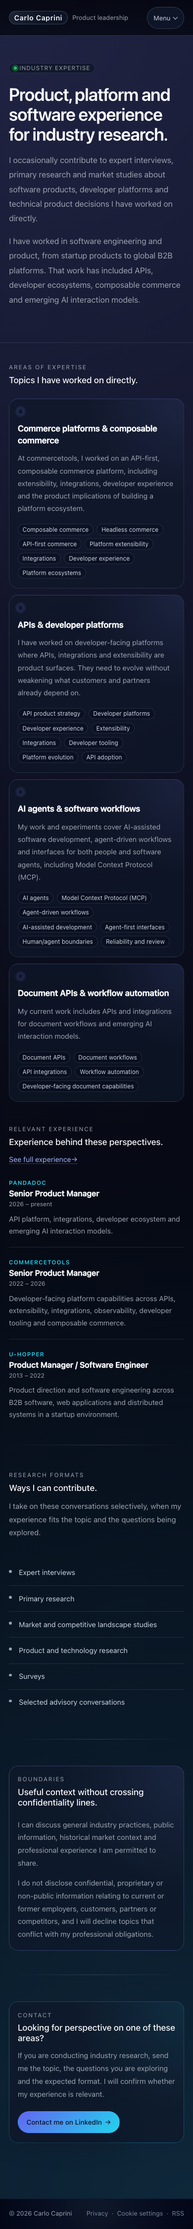
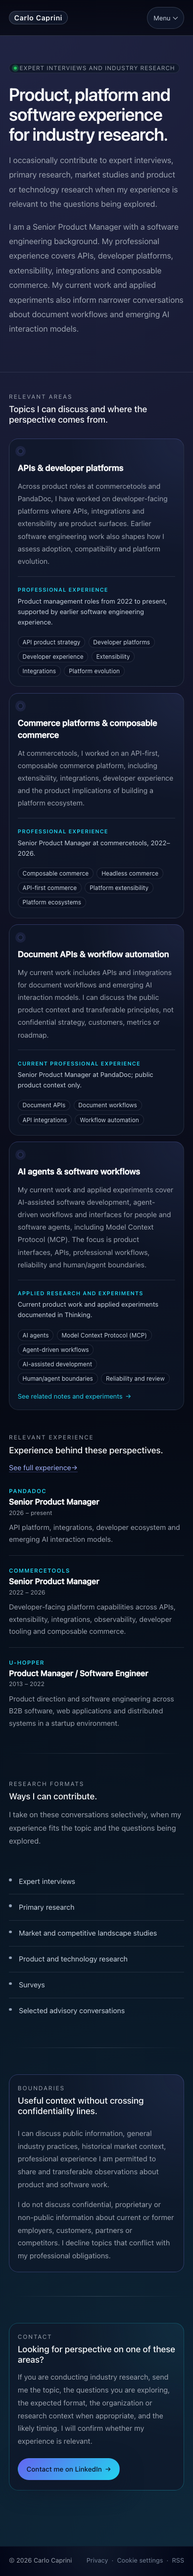
Refine research experience boundaries

diff --git a/tests/browser/editorial-journeys.spec.js b/tests/browser/editorial-journeys.spec.js
@@ -188,10 +188,10 @@ test("Work explains recognizable problems and exactly two engagement models", as
   await expect(page.getByRole("heading", { name: "Experience across Product & Engineering." })).toBeVisible();
   await expect(page.locator(".work-evidence-signals > li")).toHaveCount(3);
   await expect(page.getByRole("link", { name: /See full experience/ })).toHaveAttribute("href", "/experience/");
-  await expect(page.getByRole("heading", { name: "Industry expertise for research and expert conversations." })).toBeVisible();
+  await expect(page.getByRole("heading", { name: "Expert interviews and industry research." })).toBeVisible();
   await expect(page.locator(".work-industry-areas > li")).toHaveCount(4);
   await expect(page.locator(".work-industry-note")).toHaveCount(0);
-  await expect(page.getByRole("link", { name: /Explore industry expertise/ })).toHaveAttribute("href", "/industry-expertise/");
+  await expect(page.getByRole("link", { name: /See research topics and boundaries/ })).toHaveAttribute("href", "/industry-expertise/");
   const workSectionOrder = await page.locator(".work-evidence-section, .work-industry-section, .work-next-section")
     .evaluateAll((sections) => sections.map((section) => section.className));
   expect(workSectionOrder).toEqual([
@@ -209,28 +209,40 @@ test("Experience leads with direct work and leaves credentials out of the public
   await expect(page.locator(".experience-evidence-card")).toHaveCount(4);
   await expect(page.getByText("Career context", { exact: true })).toBeVisible();
   await expect(page.getByRole("link", { name: "How I can help", exact: true })).toHaveAttribute("href", "/work/");
-  await expect(page.getByRole("link", { name: /Explore industry expertise/ })).toHaveAttribute("href", "/industry-expertise/");
+  await expect(page.getByRole("link", { name: /See research topics and boundaries/ })).toHaveAttribute("href", "/industry-expertise/");
   await expect(page.getByRole("heading", { name: "Credentials and certifications" })).toHaveCount(0);
   await expect(page.locator("#credentials")).toHaveCount(0);
 });
 
-test("Industry Expertise is a bounded research profile grounded in direct experience", async ({ page }) => {
+test("Expert interviews and industry research distinguish professional experience from applied experiments", async ({ page }) => {
   await page.goto("/industry-expertise/");
 
   await expect(page).toHaveTitle("Software, API & Commerce Industry Expertise | Carlo Caprini");
   await expect(page.locator('meta[name="description"]')).toHaveAttribute(
     "content",
-    "Industry expertise for research on composable commerce, APIs, developer platforms, AI agents, MCP and document workflows, grounded in direct Product and software experience."
+    "Selected expert interviews and industry research on software platforms, APIs, composable commerce and applied AI workflows, grounded in product management and software engineering experience."
   );
+  await expect(page.getByText("Expert interviews and industry research", { exact: true })).toBeVisible();
   await expect(page.getByRole("heading", { level: 1, name: "Product, platform and software experience for industry research." })).toBeVisible();
   await expect(page.locator(".industry-expertise-area")).toHaveCount(4);
-  await expect(page.getByRole("heading", { name: "Commerce platforms & composable commerce" })).toBeVisible();
-  await expect(page.getByRole("heading", { name: "APIs & developer platforms" })).toBeVisible();
-  await expect(page.getByRole("heading", { name: "AI agents & software workflows" })).toBeVisible();
-  await expect(page.getByRole("heading", { name: "Document APIs & workflow automation" })).toBeVisible();
+  await expect(page.locator(".industry-expertise-area h3")).toHaveText([
+    "APIs & developer platforms",
+    "Commerce platforms & composable commerce",
+    "Document APIs & workflow automation",
+    "AI agents & software workflows"
+  ]);
+  await expect(page.locator(".industry-expertise-area-basis > span")).toHaveText([
+    "Professional experience",
+    "Professional experience",
+    "Current professional experience",
+    "Applied research and experiments"
+  ]);
+  await expect(page.getByText("My current work and applied experiments cover AI-assisted software development, agent-driven workflows and interfaces for people and software agents, including Model Context Protocol (MCP). The focus is product interfaces, APIs, professional workflows, reliability and human/agent boundaries.", { exact: true })).toBeVisible();
+  await expect(page.getByRole("link", { name: /See related notes and experiments/ })).toHaveAttribute("href", "/series/building-my-ai-operating-system/");
   await expect(page.locator(".industry-expertise-experience-list > li")).toHaveCount(3);
   await expect(page.locator(".industry-expertise-format-list > li")).toHaveCount(6);
-  await expect(page.getByText("I do not disclose confidential, proprietary or non-public information relating to current or former employers, customers, partners or competitors, and I will decline topics that conflict with my professional obligations.", { exact: true })).toBeVisible();
+  await expect(page.getByText("I can discuss public information, general industry practices, historical market context, professional experience I am permitted to share and transferable observations about product and software work.", { exact: true })).toBeVisible();
+  await expect(page.getByText("I do not discuss confidential, proprietary or non-public information about current or former employers, customers, partners or competitors. I decline topics that conflict with my professional obligations.", { exact: true })).toBeVisible();
   await expect(page.getByRole("link", { name: /See full experience/ })).toHaveAttribute("href", "/experience/");
   await expect(page.getByRole("link", { name: /Contact me on LinkedIn/ })).toHaveAttribute("href", "https://www.linkedin.com/in/carlocaprini/");
 
@@ -240,9 +252,9 @@ test("Industry Expertise is a bounded research profile grounded in direct experi
     )
   );
   expect(expertiseProfile.mainEntity["@id"]).toBe("https://carlocaprini.github.io/#person");
-  expect(expertiseProfile.mainEntity.knowsAbout).toContain("Composable commerce");
-  expect(expertiseProfile.mainEntity.knowsAbout).toContain("Model Context Protocol");
-  expect(expertiseProfile.mainEntity.knowsAbout).toContain("Document APIs");
+  expect(expertiseProfile.mainEntity.jobTitle).toBe("Senior Product Manager");
+  expect(expertiseProfile.mainEntity.description).toContain("Senior Product Manager");
+  expect(expertiseProfile.mainEntity).not.toHaveProperty("knowsAbout");
 });
 
 test("question pages connect Thinking, Influences and Experience", async ({ page }) => {

diff --git a/_layouts/industry-expertise.html b/_layouts/industry-expertise.html
@@ -30,9 +30,16 @@ layout: default
             <span class="industry-expertise-area-marker" aria-hidden="true"></span>
             <h3>{{ area.title }}</h3>
             <p>{{ area.body }}</p>
+            <div class="industry-expertise-area-basis">
+              <span>{{ area.basis.label }}</span>
+              <p>{{ area.basis.body }}</p>
+            </div>
             <ul class="industry-expertise-topic-list" aria-label="Topics related to {{ area.title }}">
               {% for topic in area.topics %}<li class="pill">{{ topic }}</li>{% endfor %}
             </ul>
+            {% if area.related_work %}
+              <a class="industry-expertise-area-link" href="{{ area.related_work.url | relative_url }}" data-analytics-event="series_open" data-analytics-series-id="{{ area.related_work.series_id }}" data-analytics-link-context="industry_expertise_related_work">{{ area.related_work.label }} <span aria-hidden="true">→</span></a>
+            {% endif %}
           </article>
         {% endfor %}
       </div>

diff --git a/tests/browser/navigation.spec.js b/tests/browser/navigation.spec.js
@@ -52,7 +52,7 @@ test("Work is a first-class destination with a current-page state", async ({ pag
     .toHaveAttribute("aria-current", "page");
 });
 
-test("Industry Expertise remains contextual rather than primary navigation", async ({ page }, testInfo) => {
+test("Industry research remains contextual rather than primary navigation", async ({ page }, testInfo) => {
   await page.goto("/industry-expertise/");
 
   const primaryNavigation = page.getByRole("navigation", { name: "Primary navigation" });
@@ -64,7 +64,7 @@ test("Industry Expertise remains contextual rather than primary navigation", asy
   if (testInfo.project.name !== "desktop-chromium") await mobileMenu.locator("summary").click();
 
   await expect(navigation.getByRole("link")).toHaveCount(7);
-  await expect(navigation.getByRole("link", { name: "Industry Expertise" })).toHaveCount(0);
+  await expect(navigation.locator('a[href="/industry-expertise/"]')).toHaveCount(0);
   await expect(navigation.locator('a[aria-current="page"]')).toHaveCount(0);
 });
 

diff --git a/tests/browser/analytics.spec.js b/tests/browser/analytics.spec.js
@@ -525,6 +525,18 @@ test("Industry Expertise paths and contact intent expose their source context", 
     }
   });
 
+  const relatedWorkLink = page.locator('[data-analytics-event="series_open"][data-analytics-link-context="industry_expertise_related_work"]');
+  await relatedWorkLink.evaluate((element) => element.addEventListener("click", (event) => event.preventDefault()));
+  await relatedWorkLink.click();
+  expect(await page.evaluate(() => window.__analyticsEvents.at(-1))).toMatchObject({
+    name: "series_open",
+    parameters: {
+      series_id: "building-my-ai-operating-system",
+      link_context: "industry_expertise_related_work",
+      page_type: "industry_expertise"
+    }
+  });
+
   const contactLink = page.locator('[data-analytics-event="contact_open"][data-analytics-link-context="industry_expertise_contact"]');
   await contactLink.evaluate((element) => element.addEventListener("click", (event) => event.preventDefault()));
   await contactLink.click();

diff --git a/_includes/styles/industry-expertise.css b/_includes/styles/industry-expertise.css
@@ -54,6 +54,27 @@
   line-height: 1.75;
 }
 
+.industry-expertise-area-basis {
+  margin-top: 1.1rem;
+  padding-top: 0.95rem;
+  border-top: 1px solid var(--color-line);
+}
+
+.industry-expertise-area-basis > span {
+  color: var(--accent-cyan);
+  font-size: 0.68rem;
+  font-weight: 600;
+  letter-spacing: 0.1em;
+  text-transform: uppercase;
+}
+
+.industry-expertise-area-basis p {
+  margin-top: 0.35rem;
+  color: var(--color-text-secondary);
+  font-size: 0.82rem;
+  line-height: 1.6;
+}
+
 .industry-expertise-topic-list {
   display: flex;
   flex-wrap: wrap;
@@ -66,6 +87,19 @@
 .industry-expertise-topic-list .pill {
   color: var(--color-text-secondary);
   background: rgba(2, 6, 23, 0.28);
+}
+
+.industry-expertise-area-link {
+  display: inline-flex;
+  gap: 0.35rem;
+  margin-top: 1rem;
+  color: var(--accent-cyan);
+  font-size: 0.82rem;
+  text-decoration: none;
+}
+
+.industry-expertise-area-link:hover {
+  color: #67e8f9;
 }
 
 .industry-expertise-split {

diff --git a/_includes/structured-data/industry-expertise.html b/_includes/structured-data/industry-expertise.html
@@ -13,12 +13,12 @@
     "@id": "{{ person_id }}",
     "name": {{ person_name | jsonify }},
     "jobTitle": {{ site.data.person.job_title | jsonify }},
+    "description": {{ site.data.person.description | jsonify }},
     "url": "{{ site_url }}/",
     "worksFor": {
       "@type": "Organization",
       "name": {{ site.data.person.current_company | jsonify }}
     },
-    "knowsAbout": {{ page.structured_knows_about | jsonify }},
     "sameAs": {{ site.data.person.same_as | default: empty | jsonify }}
   }
 }

diff --git a/pages/industry-expertise.md b/pages/industry-expertise.md
@@ -1,68 +1,69 @@
 ---
 layout: industry-expertise
-title: Industry Expertise
+title: Expert Interviews and Industry Research
 permalink: /industry-expertise/
 meta_title: Software, API & Commerce Industry Expertise | Carlo Caprini
-meta_description: Industry expertise for research on composable commerce, APIs, developer platforms, AI agents, MCP and document workflows, grounded in direct Product and software experience.
-last_modified_at: 2026-09-16
-structured_knows_about:
-  - Composable commerce
-  - API platforms
-  - Developer platforms
-  - Developer experience
-  - AI agents
-  - Model Context Protocol
-  - Document APIs
-  - Workflow automation
+meta_description: Selected expert interviews and industry research on software platforms, APIs, composable commerce and applied AI workflows, grounded in product management and software engineering experience.
+last_modified_at: 2026-09-18
 hero:
-  label: Industry expertise
+  label: Expert interviews and industry research
   title: Product, platform and software experience for industry research.
   paragraphs:
-    - I occasionally contribute to expert interviews, primary research and market studies about software products, developer platforms and technical product decisions I have worked on directly.
-    - I have worked in software engineering and product, from startup products to global B2B platforms. That work has included APIs, developer ecosystems, composable commerce and emerging AI interaction models.
+    - I occasionally contribute to expert interviews, primary research, market studies and product or technology research when my experience is relevant to the questions being explored.
+    - I am a Senior Product Manager with a software engineering background. My professional experience covers APIs, developer platforms, extensibility, integrations and composable commerce. My current work and applied experiments also inform narrower conversations about document workflows and emerging AI interaction models.
 areas:
-  eyebrow: Areas of expertise
-  title: Topics I have worked on directly.
+  eyebrow: Relevant areas
+  title: Topics I can discuss and where the perspective comes from.
   items:
-    - title: Commerce platforms & composable commerce
-      body: At commercetools, I worked on an API-first, composable commerce platform, including extensibility, integrations, developer experience and the product implications of building a platform ecosystem.
-      topics:
-        - Composable commerce
-        - Headless commerce
-        - API-first commerce
-        - Platform extensibility
-        - Integrations
-        - Developer experience
-        - Platform ecosystems
     - title: APIs & developer platforms
-      body: I have worked on developer-facing platforms where APIs, integrations and extensibility are product surfaces. They need to evolve without weakening what customers and partners already depend on.
+      body: Across product roles at commercetools and PandaDoc, I have worked on developer-facing platforms where APIs, integrations and extensibility are product surfaces. Earlier software engineering work also shapes how I assess adoption, compatibility and platform evolution.
+      basis:
+        label: Professional experience
+        body: Product management roles from 2022 to present, supported by earlier software engineering experience.
       topics:
         - API product strategy
         - Developer platforms
         - Developer experience
         - Extensibility
         - Integrations
-        - Developer tooling
         - Platform evolution
-        - API adoption
-    - title: AI agents & software workflows
-      body: My work and experiments cover AI-assisted software development, agent-driven workflows and interfaces for both people and software agents, including Model Context Protocol (MCP).
+    - title: Commerce platforms & composable commerce
+      body: At commercetools, I worked on an API-first, composable commerce platform, including extensibility, integrations, developer experience and the product implications of building a platform ecosystem.
+      basis:
+        label: Professional experience
+        body: Senior Product Manager at commercetools, 2022–2026.
       topics:
-        - AI agents
-        - Model Context Protocol (MCP)
-        - Agent-driven workflows
-        - AI-assisted development
-        - Agent-first interfaces
-        - Human/agent boundaries
-        - Reliability and review
+        - Composable commerce
+        - Headless commerce
+        - API-first commerce
+        - Platform extensibility
+        - Platform ecosystems
     - title: Document APIs & workflow automation
-      body: My current work includes APIs and integrations for document workflows and emerging AI interaction models.
+      body: My current work includes APIs and integrations for document workflows and emerging AI interaction models. I can discuss the public product context and transferable principles, not confidential strategy, customers, metrics or roadmap.
+      basis:
+        label: Current professional experience
+        body: Senior Product Manager at PandaDoc; public product context only.
       topics:
         - Document APIs
         - Document workflows
         - API integrations
         - Workflow automation
-        - Developer-facing document capabilities
+    - title: AI agents & software workflows
+      body: My current work and applied experiments cover AI-assisted software development, agent-driven workflows and interfaces for people and software agents, including Model Context Protocol (MCP). The focus is product interfaces, APIs, professional workflows, reliability and human/agent boundaries.
+      basis:
+        label: Applied research and experiments
+        body: Current product work and applied experiments documented in Thinking.
+      topics:
+        - AI agents
+        - Model Context Protocol (MCP)
+        - Agent-driven workflows
+        - AI-assisted development
+        - Human/agent boundaries
+        - Reliability and review
+      related_work:
+        label: See related notes and experiments
+        url: /series/building-my-ai-operating-system/
+        series_id: building-my-ai-operating-system
 experience:
   eyebrow: Relevant experience
   title: Experience behind these perspectives.
@@ -97,11 +98,11 @@ boundaries:
   eyebrow: Boundaries
   title: Useful context without crossing confidentiality lines.
   paragraphs:
-    - I can discuss general industry practices, public information, historical market context and professional experience I am permitted to share.
-    - I do not disclose confidential, proprietary or non-public information relating to current or former employers, customers, partners or competitors, and I will decline topics that conflict with my professional obligations.
+    - I can discuss public information, general industry practices, historical market context, professional experience I am permitted to share and transferable observations about product and software work.
+    - I do not discuss confidential, proprietary or non-public information about current or former employers, customers, partners or competitors. I decline topics that conflict with my professional obligations.
 contact:
   eyebrow: Contact
   title: Looking for perspective on one of these areas?
-  body: If you are conducting industry research, send me the topic, the questions you are exploring and the expected format. I will confirm whether my experience is relevant.
+  body: If you are conducting industry research, send me the topic, the questions you are exploring, the expected format, the organization or research context when appropriate, and the likely timing. I will confirm whether my experience is relevant.
   action: Contact me on LinkedIn
 ---

diff --git a/pages/work.md b/pages/work.md
@@ -95,16 +95,16 @@ experience:
     label: See full experience
     url: /experience/
 industry_research:
-  eyebrow: Industry research
-  title: Industry expertise for research and expert conversations.
-  body: I also participate in selected industry research, expert interviews and market studies related to software products, platforms and developer-facing systems I have worked on.
+  eyebrow: Selected research conversations
+  title: Expert interviews and industry research.
+  body: I occasionally contribute to selected expert interviews, primary research and market studies when my experience with software products, platforms and developer-facing systems is relevant.
   areas:
-    - Commerce platforms and composable commerce
     - APIs and developer platforms
-    - AI agents and emerging software workflows
-    - Document APIs and workflow automation
+    - Commerce platforms and composable commerce
+    - Current document APIs and workflow automation
+    - Applied research on AI agents and software workflows
   action:
-    label: Explore industry expertise
+    label: See research topics and boundaries
     url: /industry-expertise/
 next_steps:
   eyebrow: What happens next

diff --git a/pages/experience.md b/pages/experience.md
@@ -68,9 +68,9 @@ independent_work:
   action:
     label: How I can help
     url: /work/
-  research_body: I also contribute to selected industry research and expert conversations related to products and platforms I have worked on.
+  research_body: I also contribute to selected expert interviews and industry research when my experience with the product or platform being studied is relevant.
   research_action:
-    label: Explore industry expertise
+    label: See research topics and boundaries
     url: /industry-expertise/
 career_context:
   eyebrow: Career context
